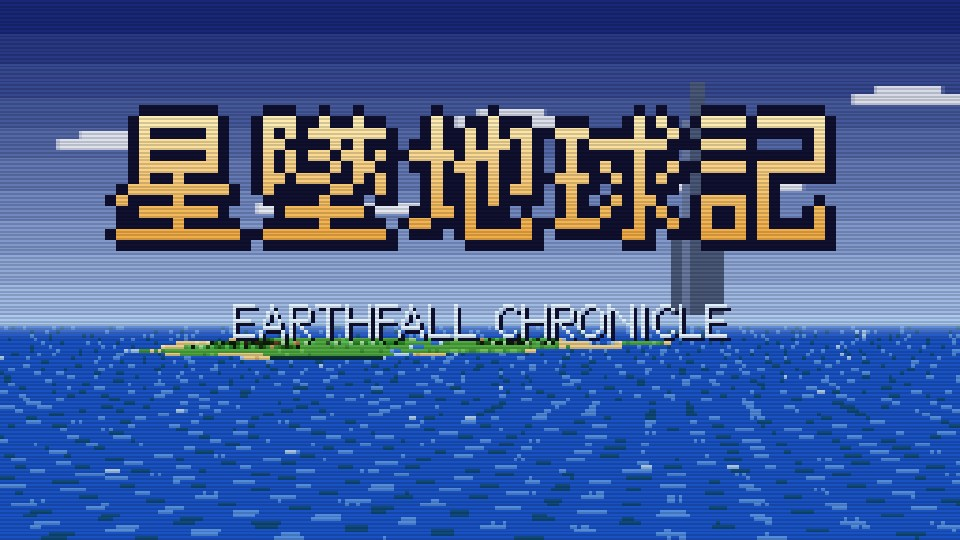
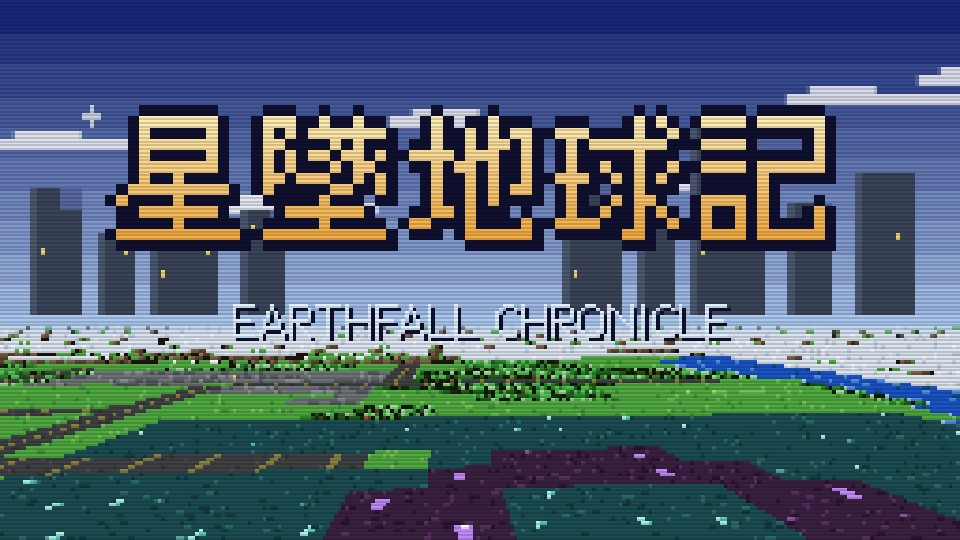
Lobby: new description and thumbnail for the remade Earthfall Chronicle

diff --git a/games.js b/games.js
@@ -27,15 +27,15 @@ window.GAMES = [
   {
     id: 'earthfall',
     url: '/earthfall/',
-    thumb: 'thumbs/earthfall.jpg',
+    thumb: 'thumbs/earthfall.jpg?v=2',
     color: '#283c88',
     genres: ['rpg', 'story', 'puzzle'],
     devices: ['keyboard', 'touch'],
     players: '1',
     added: '2026-11-10',
     title:    { zh: "星墜地球記", en: "Earthfall Chronicle" },
-    tagline:  { zh: "中英雙語的超任風格原創角色扮演：墜落的星星、沉睡的方舟、一個想看見早晨的女孩。", en: "An original 16-bit style RPG in Chinese and English: a fallen star, a sleeping Ark, and a girl who wants to see the morning." },
-    about:    { zh: "十年前，一顆星星墜入東方的海，巡守隊長雷昂出海後再也沒有回來。十年後，同樣的星光落進了北方的礦坑，星星裡傳出女孩的哭聲。見習兵凱帶著父親的星盤，與聽得見星星聲音的妮雅、背負十年愧疚的老兵巴頓一同出發，在礦坑深處遇見了失去記憶的星之子艾歐。起承轉合的感人劇情：一鍋溫暖的粥、一個「粥涼之前就回來」的約定、塔中等待著的身影，以及一場告別。256×224 的復古畫面、推石塊解謎的地城、看得見的魔物、正面視角回合制戰鬥與原創晶片音樂，可隨時切換中文或英文。", en: "Ten years ago a star fell into the eastern sea, and Captain Leon sailed out and never came home. Now the same light falls into the northern mine, and a girl's voice cries from inside it. Young Kai sets out with his father's starwheel, Nia who hears the stars, and Barton, an old soldier carrying ten years of guilt. Deep in the mine they find Io, a child of the star with no memory. A heartfelt story in four acts: a warm pot of porridge, a promise to be home before it cools, someone waiting in the tower, and a farewell. Retro 256x224 graphics, push-block dungeons, visible monsters, front-view turn-based battles and an original chiptune score, playable in Chinese or English." },
+    tagline:  { zh: "中英雙語的超任風格原創 RPG：2091 年小行星墜落，三百年後，鐵軌鎮的拾荒少年在地鐵深處喚醒了種子守護機器人。", en: "An original 16-bit RPG in Chinese and English: in 2091 an asteroid falls, and three hundred years later a scavenger wakes a seed-keeper robot deep in a sunken metro." },
+    about:    { zh: "故事從 2091 年的軌道站「搖籃號」開始：植物學家玲博士在小行星撞上地球前，把裝著全世界植物種子的機器人露米送回地球。三百年後，住在廢棄列車車廂裡的拾荒少年朔，為了替鐵軌鎮付教團的什一稅，潛入漆黑的沉沒地鐵，喚醒了露米。旋轉導管讓電流接通才能開門、手電筒照亮的黑暗地鐵、種下第一朵花後重新轉動的風車、霓虹廢都裡的真相、教團「神明」的真面目，以及種子庫裡一對母女的重逢。全新的地圖、全新的手繪點陣魔物，可隨時切換中文或英文。", en: "It begins in 2091 aboard the orbital station Cradle, as botanist Dr. Rei sends Lumi, a robot carrying the seeds of every plant on Earth, down to the planet before an asteroid hits. Three hundred years later Saku, a scavenger who lives in an abandoned train carriage, dives into the pitch-dark Sunken Metro to pay the church's tithe and wakes Lumi. Turn conduits to route power and open doors, explore by the light of a lamp, watch a dead windfarm turn green after the first flower, learn the truth in Neon City, uncover the church's god, and see a mother and daughter meet again at the Seed Vault. New maps, hand-drawn pixel monsters, and Chinese or English at any time." },
     controls: { zh: "方向鍵移動；Z / Enter 決定、對話、調查；X / Esc 取消與開啟選單。支援手把。手機：螢幕上的十字鍵與 A、B 按鈕。標題畫面或設定可切換中文／英文。", en: "Arrow keys move; Z / Enter confirms, talks and checks; X / Esc cancels and opens the menu. Gamepads work. Touch: on-screen d-pad with A and B buttons. Switch between Chinese and English on the title screen or in Config." }
   },
   {

diff --git a/index.html b/index.html
@@ -78,7 +78,7 @@
     </form>
   </div>
 
-  <script src="games.js?v=150"></script>
+  <script src="games.js?v=151"></script>
   <script src="app.js?v=12"></script>
   <script type="module" src="account.js?v=2"></script>
 </body>
